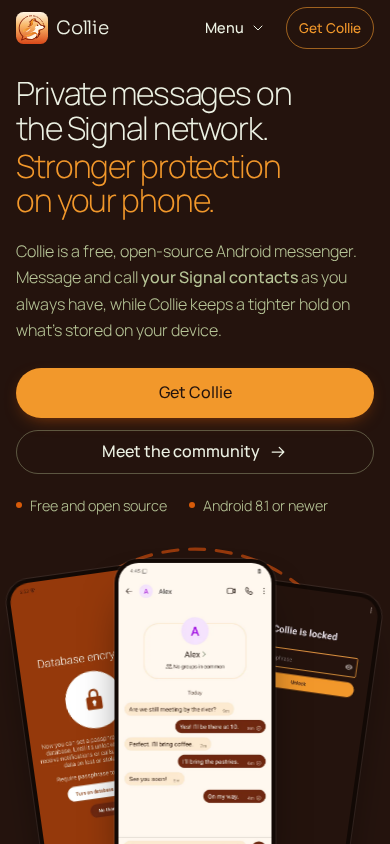
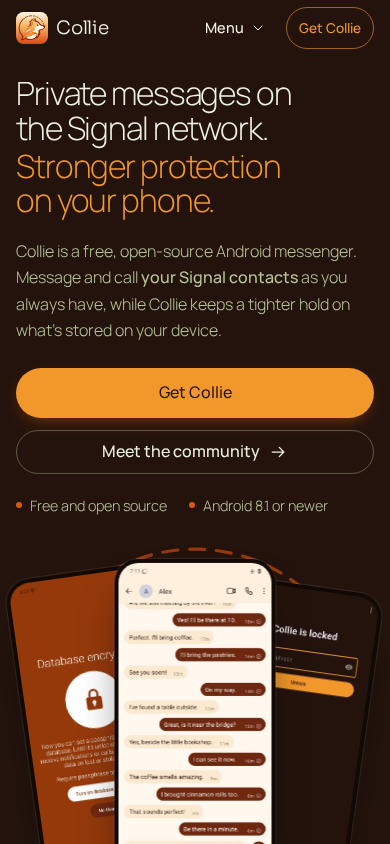
Record the ongoing-thread hero comparison
Refresh eight affected browser views, measured readable-message positions, native restoration and exact local-main image-only scope.

Layer: website

Changed region(s): [[0.3077, 0.6777, 0.6769, 1.0]]

diff --git a/docs/screenshots/pr-95/render-checks.md b/docs/screenshots/pr-95/render-checks.md
@@ -179,3 +179,103 @@ communityActions {"main":[{"weight":"600","size":"15.6px","color":"rgb(183, 197,
 ready {"width":320,"height":1500,"usable":320,"fonts":"loaded","images":[true],"overflow":false,"dark":false}
 communityActions {"main":[{"weight":"600","size":"15.6px","color":"rgb(90, 64, 51)","underline":"underline"},{"weight":"600","size":"15.6px","color":"rgb(90, 64, 51)","underline":"underline"}],"help":[{"weight":"500","size":"16px","color":"rgb(47, 79, 58)","underline":"underline"},{"weight":"500","size":"16px","color":"rgb(47, 79, 58)","underline":"underline"}],"introLink":"https://github.com/0cwa/collieim-android/discussions/categories/ideas-requests"}
 ```
+
+## Current ongoing-conversation hero selection
+
+Image source commit d754358d1afac77eb84c260a7383cfe0688e38ee; HTML/CSS unchanged from eb9e7c2376d78222dc0a86926f33084b26d96879. First fully readable native message text is373px, bubble container355px. The partial historical text at250px is not counted. Prior fully readable text was1003px. Existing front-image geometry determines the measured browser coordinates below. No CSS/layout/copy changed.
+
+### desktop-light.png
+
+```text
+ready {"width":1280,"height":800,"usable":1280,"fonts":"loaded","images":[true,true,true,true],"overflow":false,"dark":false}
+heroTypography {"font":"58.88px","lineHeight":"63.5904px","lineCount":4,"lines":["Private messages on","the Signal network.","Stronger protection","on your phone."]}
+heroGaps {"headerToTitle":64,"titleToBody":28,"bodyToActions":34,"actionsToFacts":30,"factsToStage":-504.03125,"ctaRowGap":-50}
+heroPositions {"headlineTop":153.71875,"headlineBottom":415.09375,"bodyTop":443.09375,"bodyBottom":531.78125,"ctaTop":565.78125,"ctaBottom":615.78125,"factsTop":645.78125,"factsBottom":669.546875,"stageTop":165.515625,"frontImageTop":206.46875,"frontImageHeight":410.3125,"chatNameY":238.38194444444446,"firstMessageTextY":277.3236400462963,"firstFullyReadableBubbleY":273.90436921296293}
+wideGeometry [{"q":".hero h1","x":100,"y":153.71875,"w":533.390625,"h":261.375,"font":"58.88px"},{"q":".lede","x":100,"y":443.09375,"w":533.390625,"h":88.6875,"font":"17.92px"},{"q":".hero .actions","x":100,"y":565.78125,"w":533.390625,"h":50,"font":"17px"},{"q":".stage","x":697.390625,"y":165.515625,"w":482.59375,"h":492.234375,"font":"17px"},{"q":".p-front img","x":836.109375,"y":206.46875,"w":205.15625,"h":410.3125,"font":"17px"}]
+batchGuards {"factRows":1,"factCount":2,"factFont":"14.4px","heroTargets":[{"w":121,"h":50},{"w":236,"h":50}],"upcomingLead":"18px","upcomingDetail":"16px"}
+position {"scrollY":0,"section":89.71875,"getY":3559.328125,"background":"rgb(249, 251, 244)"}
+```
+
+### desktop-dark.png
+
+```text
+ready {"width":1280,"height":800,"usable":1280,"fonts":"loaded","images":[true,true,true,true],"overflow":false,"dark":true}
+heroTypography {"font":"58.88px","lineHeight":"63.5904px","lineCount":4,"lines":["Private messages on","the Signal network.","Stronger protection","on your phone."]}
+heroGaps {"headerToTitle":64,"titleToBody":28,"bodyToActions":34,"actionsToFacts":30,"factsToStage":-504.03125,"ctaRowGap":-50}
+heroPositions {"headlineTop":153.71875,"headlineBottom":415.09375,"bodyTop":443.09375,"bodyBottom":531.78125,"ctaTop":565.78125,"ctaBottom":615.78125,"factsTop":645.78125,"factsBottom":669.546875,"stageTop":165.515625,"frontImageTop":206.46875,"frontImageHeight":410.3125,"chatNameY":238.38194444444446,"firstMessageTextY":277.3236400462963,"firstFullyReadableBubbleY":273.90436921296293}
+wideGeometry [{"q":".hero h1","x":100,"y":153.71875,"w":533.390625,"h":261.375,"font":"58.88px"},{"q":".lede","x":100,"y":443.09375,"w":533.390625,"h":88.6875,"font":"17.92px"},{"q":".hero .actions","x":100,"y":565.78125,"w":533.390625,"h":50,"font":"17px"},{"q":".stage","x":697.390625,"y":165.515625,"w":482.59375,"h":492.234375,"font":"17px"},{"q":".p-front img","x":836.109375,"y":206.46875,"w":205.15625,"h":410.3125,"font":"17px"}]
+batchGuards {"factRows":1,"factCount":2,"factFont":"14.4px","heroTargets":[{"w":121,"h":50},{"w":236,"h":50}],"upcomingLead":"18px","upcomingDetail":"16px"}
+position {"scrollY":0,"section":89.71875,"getY":3559.328125,"background":"rgb(36, 19, 13)"}
+```
+
+### page-top-mobile-light.png
+
+```text
+ready {"width":390,"height":844,"usable":390,"fonts":"loaded","images":[true,true,true,true],"overflow":false,"dark":false}
+heroTypography {"font":"32px","lineHeight":"34.56px","lineCount":4,"lines":["Private messages on","the Signal network.","Stronger protection","on your phone."]}
+heroGaps {"headerToTitle":20,"titleToBody":20,"bodyToActions":24,"actionsToFacts":20,"factsToStage":16,"ctaRowGap":12}
+heroPositions {"headlineTop":76,"headlineBottom":218.015625,"bodyTop":238.015625,"bodyBottom":343.578125,"ctaTop":367.578125,"ctaBottom":473.578125,"factsTop":493.578125,"factsBottom":517.34375,"stageTop":533.34375,"frontImageTop":562.828125,"frontImageHeight":306.1875,"chatNameY":586.6427083333333,"firstMessageTextY":615.7021701388888,"firstFullyReadableBubbleY":613.1506076388889}
+wideGeometry [{"q":".hero h1","x":16,"y":76,"w":358,"h":142.015625,"font":"32px"},{"q":".lede","x":16,"y":238.015625,"w":358,"h":105.5625,"font":"16px"},{"q":".hero .actions","x":16,"y":367.578125,"w":358,"h":106,"font":"16px"},{"q":".stage","x":16,"y":533.34375,"w":358,"h":365.15625,"font":"16px"},{"q":".p-front img","x":118.453125,"y":562.828125,"w":153.09375,"h":306.1875,"font":"16px"}]
+batchGuards {"factRows":1,"factCount":2,"factFont":"14.4px","heroTargets":[{"w":358,"h":50},{"w":358,"h":44}],"upcomingLead":"18px","upcomingDetail":"16px"}
+position {"scrollY":0,"section":56,"getY":4632.078125,"background":"rgb(249, 251, 244)"}
+```
+
+### page-top-narrow-light.png
+
+```text
+ready {"width":320,"height":844,"usable":320,"fonts":"loaded","images":[true,true,true,true],"overflow":false,"dark":false}
+heroTypography {"font":"30px","lineHeight":"32.4px","lineCount":4,"lines":["Private messages on","the Signal network.","Stronger protection","on your phone."]}
+heroGaps {"headerToTitle":20,"titleToBody":20,"bodyToActions":24,"actionsToFacts":20,"factsToStage":16,"ctaRowGap":12}
+heroPositions {"headlineTop":76,"headlineBottom":209.15625,"bodyTop":229.15625,"bodyBottom":361.109375,"ctaTop":385.109375,"ctaBottom":491.109375,"factsTop":511.109375,"factsBottom":566.640625,"stageTop":582.640625,"frontImageTop":607.921875,"frontImageHeight":243.1875,"chatNameY":626.8364583333333,"firstMessageTextY":649.9167534722222,"firstFullyReadableBubbleY":647.8901909722222}
+wideGeometry [{"q":".hero h1","x":16,"y":76,"w":288,"h":133.15625,"font":"30px"},{"q":".lede","x":16,"y":229.15625,"w":288,"h":131.953125,"font":"16px"},{"q":".hero .actions","x":16,"y":385.109375,"w":288,"h":106,"font":"16px"},{"q":".stage","x":16,"y":582.640625,"w":288,"h":293.75,"font":"16px"},{"q":".p-front img","x":99.203125,"y":607.921875,"w":121.59375,"h":243.1875,"font":"16px"}]
+batchGuards {"factRows":2,"factCount":2,"factFont":"14.4px","heroTargets":[{"w":288,"h":50},{"w":288,"h":44}],"upcomingLead":"18px","upcomingDetail":"16px"}
+position {"scrollY":0,"section":56,"getY":5043.671875,"background":"rgb(249, 251, 244)"}
+```
+
+### page-top-tablet-light.png
+
+```text
+ready {"width":768,"height":1024,"usable":768,"fonts":"loaded","images":[true,true,true,true],"overflow":false,"dark":false}
+heroTypography {"font":"36.8px","lineHeight":"39.744px","lineCount":2,"lines":["Private messages on the Signal network.","Stronger protection on your phone."]}
+heroGaps {"headerToTitle":38.390625,"titleToBody":28,"bodyToActions":34,"actionsToFacts":30,"factsToStage":38.390625,"ctaRowGap":-50}
+heroPositions {"headlineTop":94.390625,"headlineBottom":178.265625,"bodyTop":206.265625,"bodyBottom":290.40625,"ctaTop":324.40625,"ctaBottom":374.40625,"factsTop":404.40625,"factsBottom":428.171875,"stageTop":466.5625,"frontImageTop":504.953125,"frontImageHeight":372,"chatNameY":533.8864583333333,"firstMessageTextY":569.1920138888889,"firstFullyReadableBubbleY":566.0920138888889}
+wideGeometry [{"q":".hero h1","x":30.71875,"y":94.390625,"w":706.5625,"h":83.875,"font":"36.8px"},{"q":".lede","x":30.71875,"y":206.265625,"w":544,"h":84.140625,"font":"17px"},{"q":".hero .actions","x":30.71875,"y":324.40625,"w":706.5625,"h":50,"font":"17px"},{"q":".stage","x":164,"y":466.5625,"w":440,"h":448.796875,"font":"17px"},{"q":".p-front img","x":291,"y":504.953125,"w":186,"h":372,"font":"17px"}]
+batchGuards {"factRows":1,"factCount":2,"factFont":"14.4px","heroTargets":[{"w":121,"h":50},{"w":236,"h":50}],"upcomingLead":"18px","upcomingDetail":"16px"}
+position {"scrollY":0,"section":56,"getY":4258.046875,"background":"rgb(249, 251, 244)"}
+```
+
+### mobile-light.png
+
+```text
+ready {"width":390,"height":844,"usable":390,"fonts":"loaded","images":[true,true,true,true],"overflow":false,"dark":false}
+heroTypography {"font":"32px","lineHeight":"34.56px","lineCount":4,"lines":["Private messages on","the Signal network.","Stronger protection","on your phone."]}
+heroGaps {"headerToTitle":-433,"titleToBody":20,"bodyToActions":24,"actionsToFacts":20,"factsToStage":16,"ctaRowGap":12}
+heroPositions {"headlineTop":-377,"headlineBottom":-234.984375,"bodyTop":-214.984375,"bodyBottom":-109.421875,"ctaTop":-85.421875,"ctaBottom":20.578125,"factsTop":40.578125,"factsBottom":64.34375,"stageTop":80.34375,"frontImageTop":109.828125,"frontImageHeight":306.1875,"chatNameY":133.64270833333333,"firstMessageTextY":162.7021701388889,"firstFullyReadableBubbleY":160.15060763888889}
+wideGeometry [{"q":".hero h1","x":16,"y":-377,"w":358,"h":142.015625,"font":"32px"},{"q":".lede","x":16,"y":-214.984375,"w":358,"h":105.5625,"font":"16px"},{"q":".hero .actions","x":16,"y":-85.421875,"w":358,"h":106,"font":"16px"},{"q":".stage","x":16,"y":80.34375,"w":358,"h":365.15625,"font":"16px"},{"q":".p-front img","x":118.453125,"y":109.828125,"w":153.09375,"h":306.1875,"font":"16px"}]
+batchGuards {"factRows":1,"factCount":2,"factFont":"14.4px","heroTargets":[{"w":358,"h":50},{"w":358,"h":44}],"upcomingLead":"18px","upcomingDetail":"16px"}
+position {"scrollY":452,"section":80.34375,"getY":4632.078125,"background":"rgb(249, 251, 244)"}
+```
+
+### mobile-dark.png
+
+```text
+ready {"width":390,"height":844,"usable":390,"fonts":"loaded","images":[true,true,true,true],"overflow":false,"dark":true}
+heroTypography {"font":"32px","lineHeight":"34.56px","lineCount":4,"lines":["Private messages on","the Signal network.","Stronger protection","on your phone."]}
+heroGaps {"headerToTitle":-433,"titleToBody":20,"bodyToActions":24,"actionsToFacts":20,"factsToStage":16,"ctaRowGap":12}
+heroPositions {"headlineTop":-377,"headlineBottom":-234.984375,"bodyTop":-214.984375,"bodyBottom":-109.421875,"ctaTop":-85.421875,"ctaBottom":20.578125,"factsTop":40.578125,"factsBottom":64.34375,"stageTop":80.34375,"frontImageTop":109.828125,"frontImageHeight":306.1875,"chatNameY":133.64270833333333,"firstMessageTextY":162.7021701388889,"firstFullyReadableBubbleY":160.15060763888889}
+wideGeometry [{"q":".hero h1","x":16,"y":-377,"w":358,"h":142.015625,"font":"32px"},{"q":".lede","x":16,"y":-214.984375,"w":358,"h":105.5625,"font":"16px"},{"q":".hero .actions","x":16,"y":-85.421875,"w":358,"h":106,"font":"16px"},{"q":".stage","x":16,"y":80.34375,"w":358,"h":365.15625,"font":"16px"},{"q":".p-front img","x":118.453125,"y":109.828125,"w":153.09375,"h":306.1875,"font":"16px"}]
+batchGuards {"factRows":1,"factCount":2,"factFont":"14.4px","heroTargets":[{"w":358,"h":50},{"w":358,"h":44}],"upcomingLead":"18px","upcomingDetail":"16px"}
+position {"scrollY":452,"section":80.34375,"getY":4632.078125,"background":"rgb(36, 19, 13)"}
+```
+
+### hero-narrow-light.png
+
+```text
+ready {"width":320,"height":844,"usable":320,"fonts":"loaded","images":[true,true,true,true],"overflow":false,"dark":false}
+heroTypography {"font":"30px","lineHeight":"32.4px","lineCount":4,"lines":["Private messages on","the Signal network.","Stronger protection","on your phone."]}
+heroGaps {"headerToTitle":-483,"titleToBody":20,"bodyToActions":24,"actionsToFacts":20,"factsToStage":16,"ctaRowGap":12}
+heroPositions {"headlineTop":-427,"headlineBottom":-293.84375,"bodyTop":-273.84375,"bodyBottom":-141.890625,"ctaTop":-117.890625,"ctaBottom":-11.890625,"factsTop":8.109375,"factsBottom":63.640625,"stageTop":79.640625,"frontImageTop":104.921875,"frontImageHeight":243.1875,"chatNameY":123.83645833333333,"firstMessageTextY":146.91675347222224,"firstFullyReadableBubbleY":144.89019097222223}
+wideGeometry [{"q":".hero h1","x":16,"y":-427,"w":288,"h":133.15625,"font":"30px"},{"q":".lede","x":16,"y":-273.84375,"w":288,"h":131.953125,"font":"16px"},{"q":".hero .actions","x":16,"y":-117.890625,"w":288,"h":106,"font":"16px"},{"q":".stage","x":16,"y":79.640625,"w":288,"h":293.75,"font":"16px"},{"q":".p-front img","x":99.203125,"y":104.921875,"w":121.59375,"h":243.1875,"font":"16px"}]
+batchGuards {"factRows":2,"factCount":2,"factFont":"14.4px","heroTargets":[{"w":288,"h":50},{"w":288,"h":44}],"upcomingLead":"18px","upcomingDetail":"16px"}
+position {"scrollY":502,"section":79.640625,"getY":5043.671875,"background":"rgb(249, 251, 244)"}
+```

diff --git a/docs/screenshots/pr-95/README.md b/docs/screenshots/pr-95/README.md
@@ -1,10 +1,10 @@
 # Current website review evidence
 
-Implementation source is signed eb9e7c2376d78222dc0a86926f33084b26d96879; native assets/provenance are signed b3b4857fe6ebc0338f732cd9129c8b1bc94880f0. Review the containing evidence commit as one stable candidate. No rating is supplied by the implementation owner.
+Current chat image/provenance source is signed d754358d1afac77eb84c260a7383cfe0688e38ee; HTML/CSS remains signed eb9e7c2376d78222dc0a86926f33084b26d96879. Original encryption/lock provenance remains b3b4857fe6ebc0338f732cd9129c8b1bc94880f0. Review the containing evidence commit as one stable candidate. No rating is supplied by the implementation owner.
 
 ## Current views
 
-All paths below are in this directory. The three community views are current eb9e7c source renders. Other freshly identified component views below retain e532bde source provenance and unchanged appearance. Features at all four widths, Upcoming at 320/390/1280, community at 320/390/1280, desktop-light/phone-dark downloads and the 390 page top are freshly rendered from this source. The 390 page-top PNG is byte-identical to b11ce6f9cebac1ac52b8c711b188a249f1f13429. Other hero/about/download/footer views retain that revision's unchanged component appearance; their source provenance is explicit rather than claimed as new captures. Historical menu/Obtainium support retains its earlier provenance below.
+All paths below are in this directory. All eight hero/page-top/phone-montage views are freshly rendered with the accepted fuller-thread photo. Community views retain eb9e7c source; features/Upcoming/downloads and phone introductions retain e532bde source appearance, which this image-only selection does not change. Current helper/readiness/geometry logs are in render-checks.md. Historical menu/Obtainium source-render support and separate actual native Obtainium installation proof retain their explicit provenance below.
 
 | View | File | Actual iframe CSS viewport / PNG dimensions |
 | --- | --- | --- |
@@ -49,15 +49,17 @@ Obtainium and F-Droid repository share primary styling; only Obtainium gets Reco
 
 The montage uses **conversation front, corrected encryption left, locked screen right**. The technical proxy image is retained in source/Fastlane but no longer fronts this ordinary-user story. No CSS redesign was needed. Rear overlap covers portions of the encryption title/controls; the lock glyph/centered setup remain recognizable, and the full native image is available separately. There is no claim that every rear control is unobscured.
 
-The chat is real API 35 app UI with fictional offline Alex/six messages inserted by a temporary fixture. Header, bubbles, avatar and composer are app-rendered, not fabricated/composited pixels. The native 1080×2160 PNG is Fastlane 1.png, SHA256 28ade62dd49c45047c283ce232f14b7dedf0e36d788e85825dfa6d1fea4a2688. conversation.webp is its 540×1080 q82 resize, SHA256 b94444eeab129ef45a453dd19c73b7ad181bed0d9d636623cdb30c3a81ea5b54. No personal account or service traffic: guest airplane mode on, data/Wi-Fi off, no active default network; fixture networking disabled before registration and checked afterward.
+The first fully readable message moved from native1003px to373px (bubble top985→355px). The historical top message is naturally partly masked at the app bar; it is not counted as fully readable. At unchanged hero geometry, readable text moves320:720.85→649.92px,390:705.01→615.70px,1280:397.00→277.32px. No image cropping or HTML/CSS/copy/layout change.
+
+The chat is real API 35 app UI with fictional offline Alex/fourteen-message ongoing thread inserted by a temporary fixture. Header, bubbles, avatar and composer are app-rendered, not fabricated/composited pixels. The native 1080×2160 PNG is Fastlane 1.png, SHA256 c70ebe40ab720f40c93d87254c3f906776b7678bfe011a4153b8c6edcc9f9f11. conversation.webp is its 540×1080 q82 resize, SHA256 230620ee9b676c145f4f729fd356258921826732fcad4050b889a072326edd62. No personal account or service traffic: guest airplane mode on, data/Wi-Fi off, no active default network; fixture networking disabled before registration and checked afterward.
 
 Fastlane 3.png is a **separate new native 1080×2160 encryption capture**, SHA256 b85f15db028af21b96692d4baa431496e19ccc7304e11cd4612046ee0245f5da. Its title y451, last button bottom 1760 and system insets 115/63 give 336/337px free space. Offline no-registration centering passed 1 collected test with no skip. Durable restoration passed 1 test, followed by cold production PID 6443/task 18 with WMS SECURE. A temporary setter-only restoration initially failed that real-window proof; waiting for SignalStore writes fixed the fixture. No production Android change is included.
 
 The website encryption remains the original corrected 540×1200 WebP, SHA256 6862fbc60d5eb744ec9ba441bdec5ba4e064f3674343d5909760a19180bb0848. Its original 1080×2400 PNG and 450/450px geometry remain preserved at immutable 555fff83a6b7e8f5b8de89f522859f250a166b5f. Do not confuse those original website pixels with the distinct 2:1 Fastlane capture; hashes/dimensions differ honestly. The unchanged validator and official Izzy 2:1 rule required a native viewport capture, not cropping/padding or weakening policy.
 
-Fastlane first three are chat/lock/encryption. Existing privacy moves to 4.png; 5–9 remain; settings-overview.png preserves old 1.png byte-for-byte. No other screenshot was discarded. Local main received only the new 3.png in signed a156e045212300b65bc1846bde39f9928fbad3d3, preserving the original website WebP and unrelated files; main was not pushed.
+Fastlane first three are chat/lock/encryption. Existing privacy moves to 4.png; 5–9 remain; settings-overview.png preserves old 1.png byte-for-byte. No other screenshot was discarded. Local main received only the new 3.png in signed a156e045212300b65bc1846bde39f9928fbad3d3, preserving the original website WebP and unrelated files; main was not pushed. A later signed image-only main follow-up8e32173c04b50e2bbe31cd475726821f69a8641d replaces its still-original Fastlane1 settings image with the current chat and adds the previously absent conversation.webp. It does not reorder main's other screenshots or change any other file; unrelated .local/tools state is preserved. The PR's deliberate chat/lock/encryption order must not be assumed for main.
 
-See [conversation-capture.md](conversation-capture.md) for exact commands, matching APK/helper hashes, UI dumps and security proof, and [encryption-capture.md](encryption-capture.md) for the original viewport record. Use only offline-demo-security.kt.txt for future fixture reproduction; historical pre-flush snapshots are provenance-only and clearly superseded.
+See [ongoing-conversation-capture.md](ongoing-conversation-capture.md) for the current chat commands, matching APK/helper hashes, UI dump and durable security proof. The normal conversation already opened at its latest messages; no scroll manipulation was necessary. The earlier [conversation-capture.md](conversation-capture.md) remains the encryption and historical six-message record; [encryption-capture.md](encryption-capture.md) records the original viewport. Use only offline-demo-security.kt.txt for future fixture reproduction; historical pre-flush snapshots are provenance-only and clearly superseded.
 
 ## Current focused phone clarity measurements
 
@@ -65,10 +67,10 @@ See [conversation-capture.md](conversation-capture.md) for exact commands, match
 
 Headline and lede wording, weight/line-height ratio, orange second sentence, native images and phone composition are unchanged. Phone-only sizing/gaps now make the real messages appear earlier:
 
-| Actual CSS width | Headline / line height / lines | Alex header text Y | First message text Y | Facts / font | Primary / secondary target |
+| Actual CSS width | Headline / line height / lines | Alex header text Y | First fully readable message text Y | Facts / font | Primary / secondary target |
 | --- | --- | --- | --- | --- | --- |
-|320|30 /32.4px /4|626.84|720.85|2 rows /14.4px|288×50 /288×44px|
-|390|32 /34.56px /4|586.64|705.01|1 row /14.4px|358×50 /358×44px|
+|320|30 /32.4px /4|626.84|649.92|2 rows /14.4px|288×50 /288×44px|
+|390|32 /34.56px /4|586.64|615.70|1 row /14.4px|358×50 /358×44px|
 
 Y is document CSS pixels at scrollY 0 in the accurate overlay-scrollbar renderer, using actual front-image geometry and matching native UI text bounds. Fixed phone gaps: header→headline 20px, headline→lede 20, lede→buttons 24, button rows 12, buttons→facts 20, facts→stage 16. Lede is 16px/26.4px. Focus-ring CSS is unchanged. At 768 and 1280, measured headline, lede, actions, stage and front-image rectangles/fonts are exactly identical to the prior candidate; only the third fact is deliberately absent.
 
@@ -104,6 +106,6 @@ The stronger secondary body weight adds two 24px lines to the combined five-item
 
 The56px page-level sticky narrow header retains Menu/Get Collie and all five section links. Prior native Tab→Menu, Enter/Escape, outside/link closing and heading-clearance checks apply to unchanged navigation source; heading tops were 88–134px with header bottom 56px. Later timed-out pointer/key transport did not reach DOM and is not new successful interaction evidence. Native source disclosure is focusable/underlined, 44px high with 8px chevron gap. Previous cream-strip checks remain valid: full-width 40px bands after the curve were exactly 249/251/244 at 390/320. Navigation and curve CSS remain unchanged. The preceding phone hero type/spacing refinement and this supporting-text/disclosure/desktop-spacing pass did change CSS; the unchanged navigation/curve evidence is not a claim that the whole stylesheet stayed fixed.
 
-Fourteen website tests pass (category/priority/title mapping/escaping/API failures/pagination/safe paths/Obtainium), the Fastlane metadata validator passes, and git diff --check passes. Native seed, offline centering and durable restore each collected/passed 1 test. Selected computed-CSS contrast evidence only: light badge 14.20/menu 15.69/facts 14.20; dark badge 14.20/menu 16.55/facts 8.01. No whole-site AA claim. The Impeccable detector used its limited fallback because parser modules are absent; no full automated audit is claimed. Impeccable 4.1.1 was already installed for Codex and used; no installation/download.
+Fourteen website tests pass (category/priority/title mapping/escaping/API failures/pagination/safe paths/Obtainium), the Fastlane metadata validator passes, and git diff --check passes. The new fourteen-message seed and durable restore each collected/passed1test; cold production PID4149 RoutingActivity showed SECURE afterward. Earlier encryption centering1/1 proof remains valid and was not rerun for this chat-only update. Selected computed-CSS contrast evidence only: light badge 14.20/menu 15.69/facts 14.20; dark badge 14.20/menu 16.55/facts 8.01. No whole-site AA claim. The Impeccable detector used its limited fallback because parser modules are absent; no full automated audit is claimed. Impeccable 4.1.1 was already installed for Codex and used; no installation/download.
 
-Remaining design tradeoffs are visible in the images: a large genuine native profile header in the demo chat, rear-screen overlap and a technical limitation in the visible Upcoming summary. No independent approval is implied by passing checks. The requested localhost:8879 server/shared caches remain; temporary Android test sources, 47 generated build/cache directories and owned AVD/runtime were removed after exact proof was saved. Unrelated emulators/worktrees and user files were untouched.
+Remaining design tradeoffs are visible in the images: naturally clipped older chat content at the top of an ongoing thread, rear-screen overlap and a technical limitation in the visible Upcoming summary. No independent approval is implied by passing checks. The requested localhost:8879 server/shared caches remain; temporary Android test sources, 47 generated build/cache directories and owned AVD/runtime were removed after exact proof was saved. Unrelated emulators/worktrees and user files were untouched.

diff --git a/docs/screenshots/pr-95/completion-audit.md b/docs/screenshots/pr-95/completion-audit.md
@@ -4,19 +4,20 @@ This is a factual requirement audit, not a design rating. Source and current ima
 
 | Requirement | Evidence/current state |
 | --- | --- |
-| Ordinary messenger audience and skimming | Patch/coexistence/two-app marketing removed, including the final hero coexistence fact at all widths. Two useful hero facts remain. Phone-only hero compaction brings actual first-message text to 705px at 390/721px at 320 without rewriting headline/lede. |
+| Ordinary messenger audience and skimming | Patch/coexistence/two-app marketing removed, including the final hero coexistence fact at all widths. Two useful hero facts remain. Phone-only hero compaction brings actual first-message text to 616px at390/650px at320 without rewriting headline/lede. |
 | Signal/Molly consolidation | Intro contains compatibility, foundations and optional source/security details. Side by side and account/two-app explanations are absent. The installation verification still names the package as before. |
 | Community/help | Matrix and Discussions have distinct chat/forum icons and visible actions. Help the project remains a separate bug-report/donation group. Main actions compute600 against Help500; the intro feature-request invitation links to the verified Ideas/Requests category. |
 | Exact notification link and emphasis | Required sentence/UnifiedPush anchor remain unchanged. Feature now describes alerts/connection plainly; precise trusted MollySocket requirement is at Upcoming. Selective emphasis/underlined links remain. |
 | Discussion-generated plans | Existing category only; eight plans in the supplied snapshot, label-priority first, separate badge, explicit planned disclaimer. Daily workflow uses 06:17 UTC and read permissions. Discussion106 wording was checked against the public source; URL unchanged. |
 | Installation options | Short secondary Obtainium prerequisite note adds 22px at 390; existing buttons/copy/handoff retained.  Obtainium/F-Droid share primary styling; Recommended appears only once; manual APK remains secondary. Website's actual CTA reaches its local handoff; README retains absolute Collie URL. GitHub update source, manual collie.im/#get fallback and tested nested-JSON filter are unchanged. |
 | Real Obtainium first install | API35/Chrome124.0.6367.219, official Obtainium1.7.4 x86_64. Missing-app handoff/return guidance remained usable; accepting Chrome Continue imported GitHub source/im.collie.app/collie.apk, and public Collie8.35.1-3-rc2 (177705) installed. No Collie launch/account/login/token; installer returned automatically, no Done tap. [Exact selected runtime proof](obtainium-walkthrough/README.md). |
-| Fresh native screenshots | Genuine offline Alex/six-message chat and corrected encryption captured at native 1080×2160. Seed/centering/durable restore each passed 1 test, no skip; encryption geometry 336/337px with title below bars. Cold production PID 6443/task 18 showed SECURE. Website encryption retains original 1080×2400 source/540×1200 derivative and 450/450px geometry. Distinct hashes/viewports are documented; no fabricated UI. |
-| Actual hero/current pixels | Genuine conversation front, original corrected encryption left, locked screen right. Natural image ratios preserve front header/composer; rear title/controls are partially overlapped, never claimed fully unobscured. Chat PNG 28ade62d…/WebP b94444ee…; new Fastlane encryption b85f15db…; original website encryption 6862fbc6…. |
+| Fresh native screenshots | Genuine offline Alex/fourteen-message ongoing chat and corrected encryption captured at native 1080×2160. Seed/centering/durable restore each passed 1 test, no skip; encryption geometry 336/337px with title below bars. Cold production PID 6443/task 18 showed SECURE. Website encryption retains original 1080×2400 source/540×1200 derivative and 450/450px geometry. Distinct hashes/viewports are documented; no fabricated UI. |
+| Actual hero/current pixels | Genuine conversation front, original corrected encryption left, locked screen right. Natural image ratios preserve front header/composer; rear title/controls are partially overlapped, never claimed fully unobscured. Chat PNG c70ebe40…/WebP230620ee…; new Fastlane encryption b85f15db…; original website encryption 6862fbc6…. |
 | Brand/live workflow | Solid hero; no CSS radial gradients. Fonts/palette/section order unchanged; selected real hero screens updated. Existing localhost:8879 server retained. Impeccable 4.1.1 was present and used; no install/download. |
 | Narrow navigation | 56px persistent header, native button/ARIA state, existing section links and Escape/outside/link closing. Prior successful keyboard/anchor evidence is distinguished from later degraded input transport in README. |
 | Validation | 14 website tests and Fastlane metadata validator passed; no overflow at actual 320/390/768/1280. Current intro/features, hero, roadmap, community and downloads/footer use exact built-source browser renders with verified fonts/images/media/viewport; latest affected groups/page tops are fresh, unchanged component views retain the explicit provenance recorded in README. Exported button/bark RGB matches source. Supporting older live captures retain original provenance. Selected contrast scope only; no whole-site AA assertion. |
-| Local main | Original website WebP stays unchanged; only new native 2:1 Fastlane 3.png updated in signed a156e045212300b65bc1846bde39f9928fbad3d3. No main push. Unrelated staged/untracked state, including .local/ and tools/, preserved. |
+| Local main current chat follow-up | Signed8e32173c04b50e2bbe31cd475726821f69a8641d replaces main's original Fastlane1 settings PNG with the current chat and adds its previously absent website derivative. Only these two files changed; main's other image order and unrelated status were preserved; no main push. |
+| Local main original encryption update | Original website WebP stays unchanged; only new native 2:1 Fastlane 3.png updated in signed a156e045212300b65bc1846bde39f9928fbad3d3. No main push. Unrelated staged/untracked state, including .local/ and tools/, preserved. |
 | Cleanup |Dedicated emulator-5562/AVD, temporary app tests and 47 generated build/cache directories removed. Unrelated emulators 5554/5580 were untouched. Shared SDK/JDK/dependency caches and requested preview server retained. |
 
 ## Verified review findings
@@ -25,7 +26,7 @@ This is a factual requirement audit, not a design rating. Source and current ima
 | --- | --- | --- |
 | Hero coexistence fact | Valid, high | Removed at all widths; unrelated Upcoming “alongside” and installation verification package ID retained. |
 | Obtainium prerequisite missing upfront | Valid, high | Needs the Obtainium app note adds exactly 22px to 390 Get panel; no new update promise. |
-| Phone hero hides real conversation below fold | Valid, high | Headline 30/32px, lede 16px, reduced scoped gaps; first message 721/705px at 320/390, fact rows 2/1, hero targets 50/44px. Wider typography/image geometry unchanged. |
+| Phone hero hides real conversation below fold | Valid, high | Headline 30/32px, lede 16px, reduced scoped gaps; first fully readable message now650/616px at320/390 after the current genuine fuller-thread selection, fact rows 2/1, hero targets 50/44px. Wider typography/image geometry unchanged. |
 | Upcoming reads as one dense paragraph | Valid, high | Existing nine-word sentence is visual lead; precise server limitation remains visible as native summary and the unchanged linked-phone/setup sentence is disclosed. Why opens it; direct-fragment/no-script setup remains open. Planned disclaimer/list/URLs unchanged. |
 | Notification terminology | Valid, high | Plain connection/trusted-server feature copy verified against native source. Exact why/UnifiedPush anchors retained; MollySocket requirement moved to existing Upcoming sentence. |
 | Featured heading orphan | Valid, high | text-wrap:balance yields Locked when / you step away at 320/390/768/1280;320 wrap unchanged, no card/facts change. |

diff --git a/docs/screenshots/pr-95/ongoing-conversation-capture.md b/docs/screenshots/pr-95/ongoing-conversation-capture.md
@@ -35,3 +35,5 @@ Build checkout was ae8af5670c7a03dd77041a3dfba54a0085e01c0c plus the two tempora
 Encryption/lock asset guards are unchanged: website encryption6862fbc60d5eb744ec9ba441bdec5ba4e064f3674343d5909760a19180bb0848; website lock8777f78f07d1c78f9305d0bac3107046ad1351b2bc65c3d7403c1aeacff561c6; Fastlane2 lock4536a908d8410fa9a03bc1640e8500ecf0873eafca9fe7deb82d06daa6401a38; Fastlane3 encryptionb85f15db028af21b96692d4baa431496e19ccc7304e11cd4612046ee0245f5da. No HTML/CSS/copy/layout change accompanies this selection.
 
 User disk continuation authority: “Don't worry about disk free warning until it's below 30G, continue”. Before heavy writes agent-disk-check reported OK free106G/unallocated7G/metadata74%. Only the owned AVD/emulator, temporary app-test fixtures and generated worktree build directories are removed; shared caches and requested localhost8879 server remain.
+
+The selected native PNG is committed as Fastlane1.png and matching current UI dump as chat-native-ui.xml in this proof directory. Temporary helper app sources and47 generated build/cache directories were removed after verification. The dedicated AVD/emulator was removed; the live server/shared caches remain.
